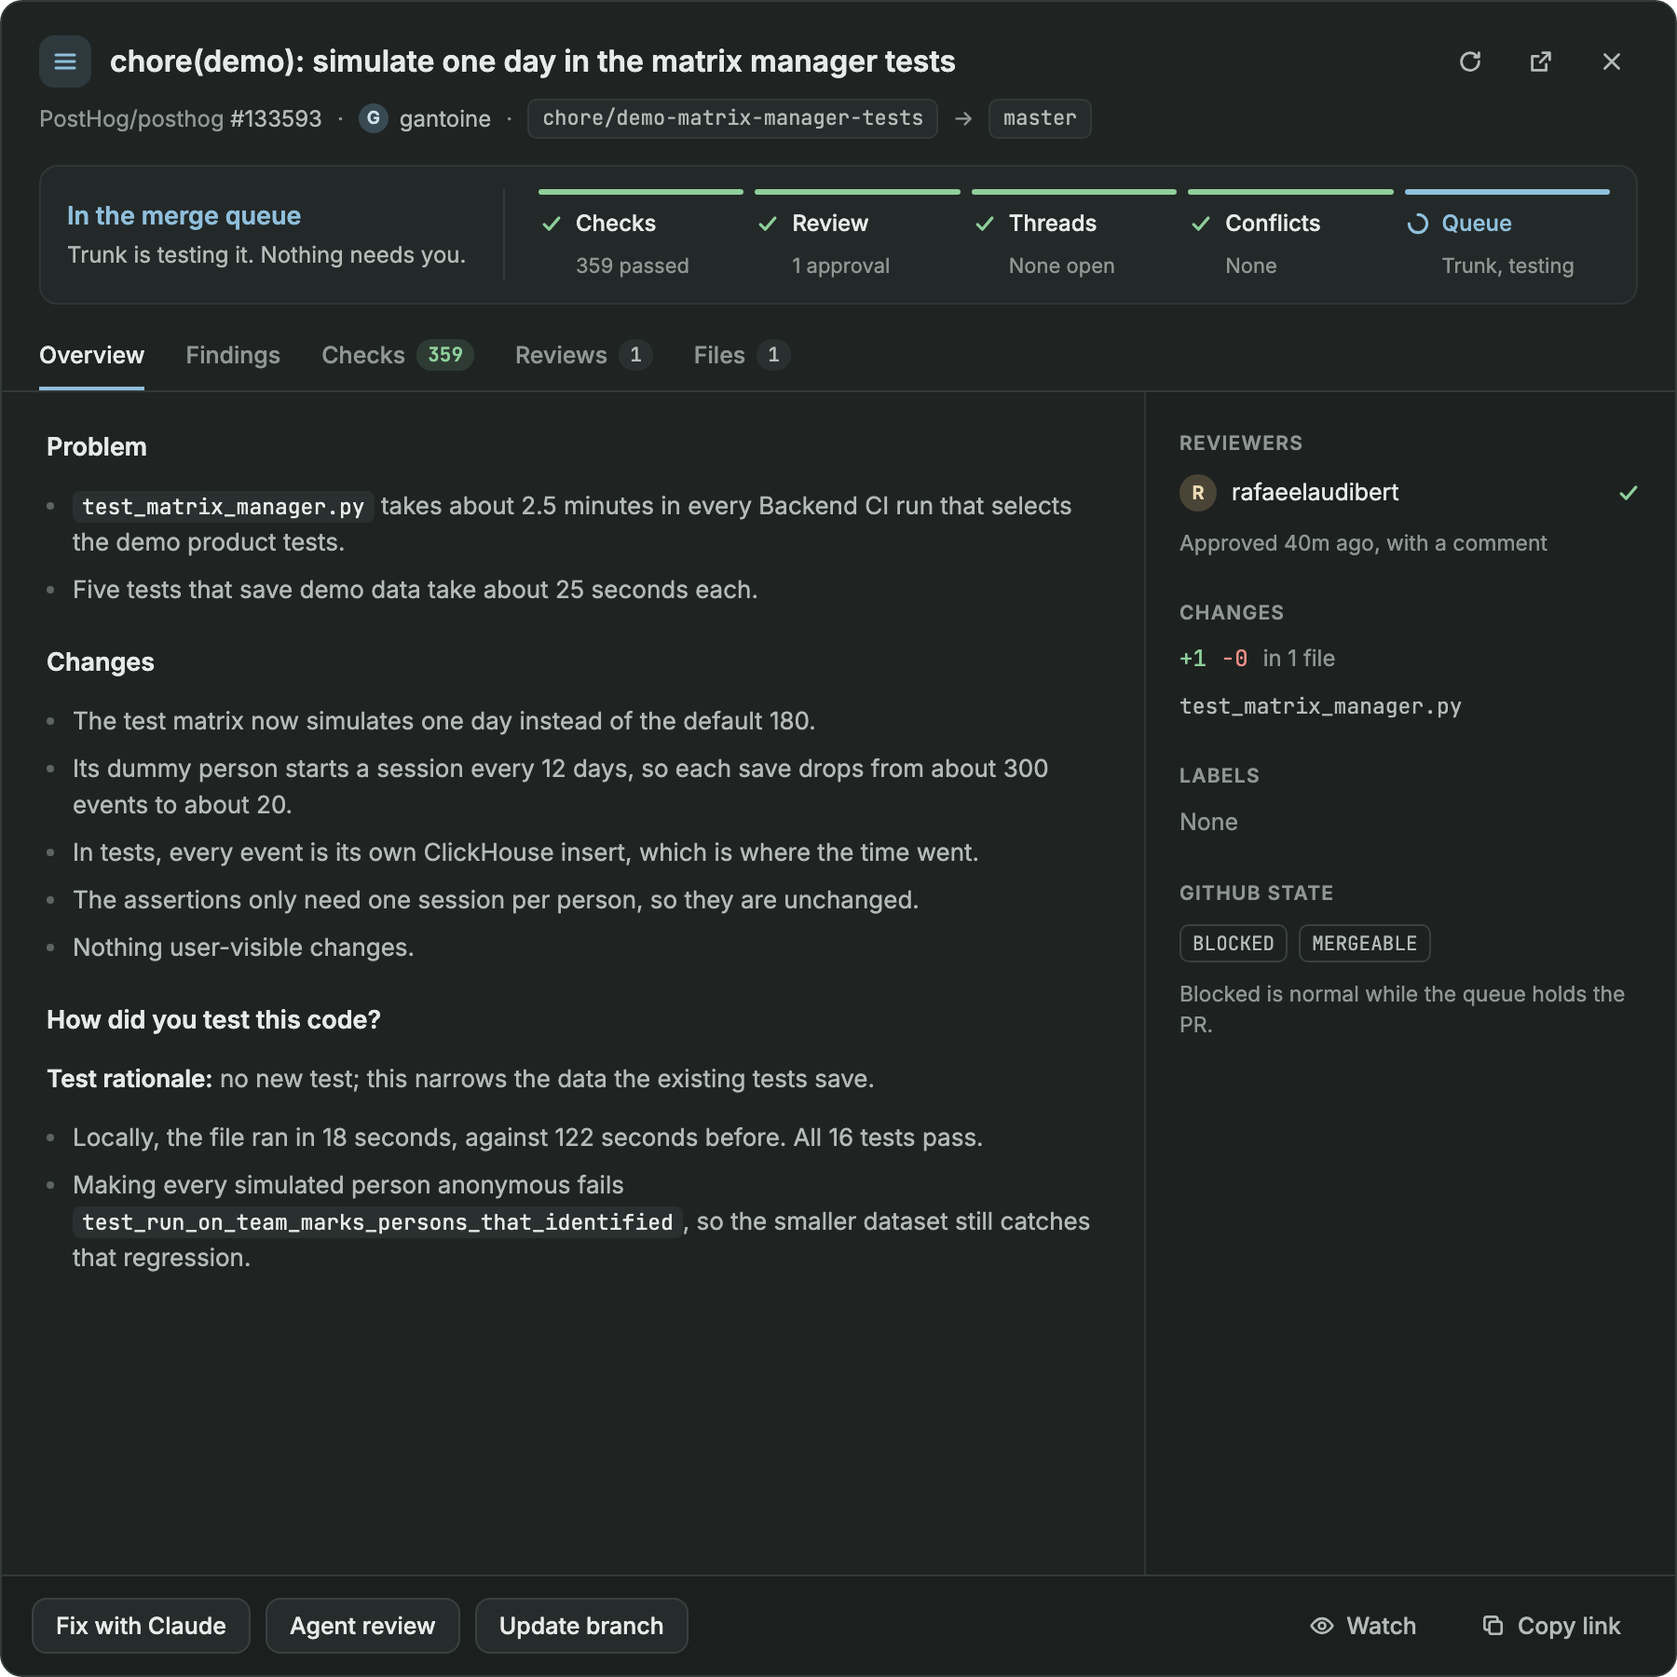
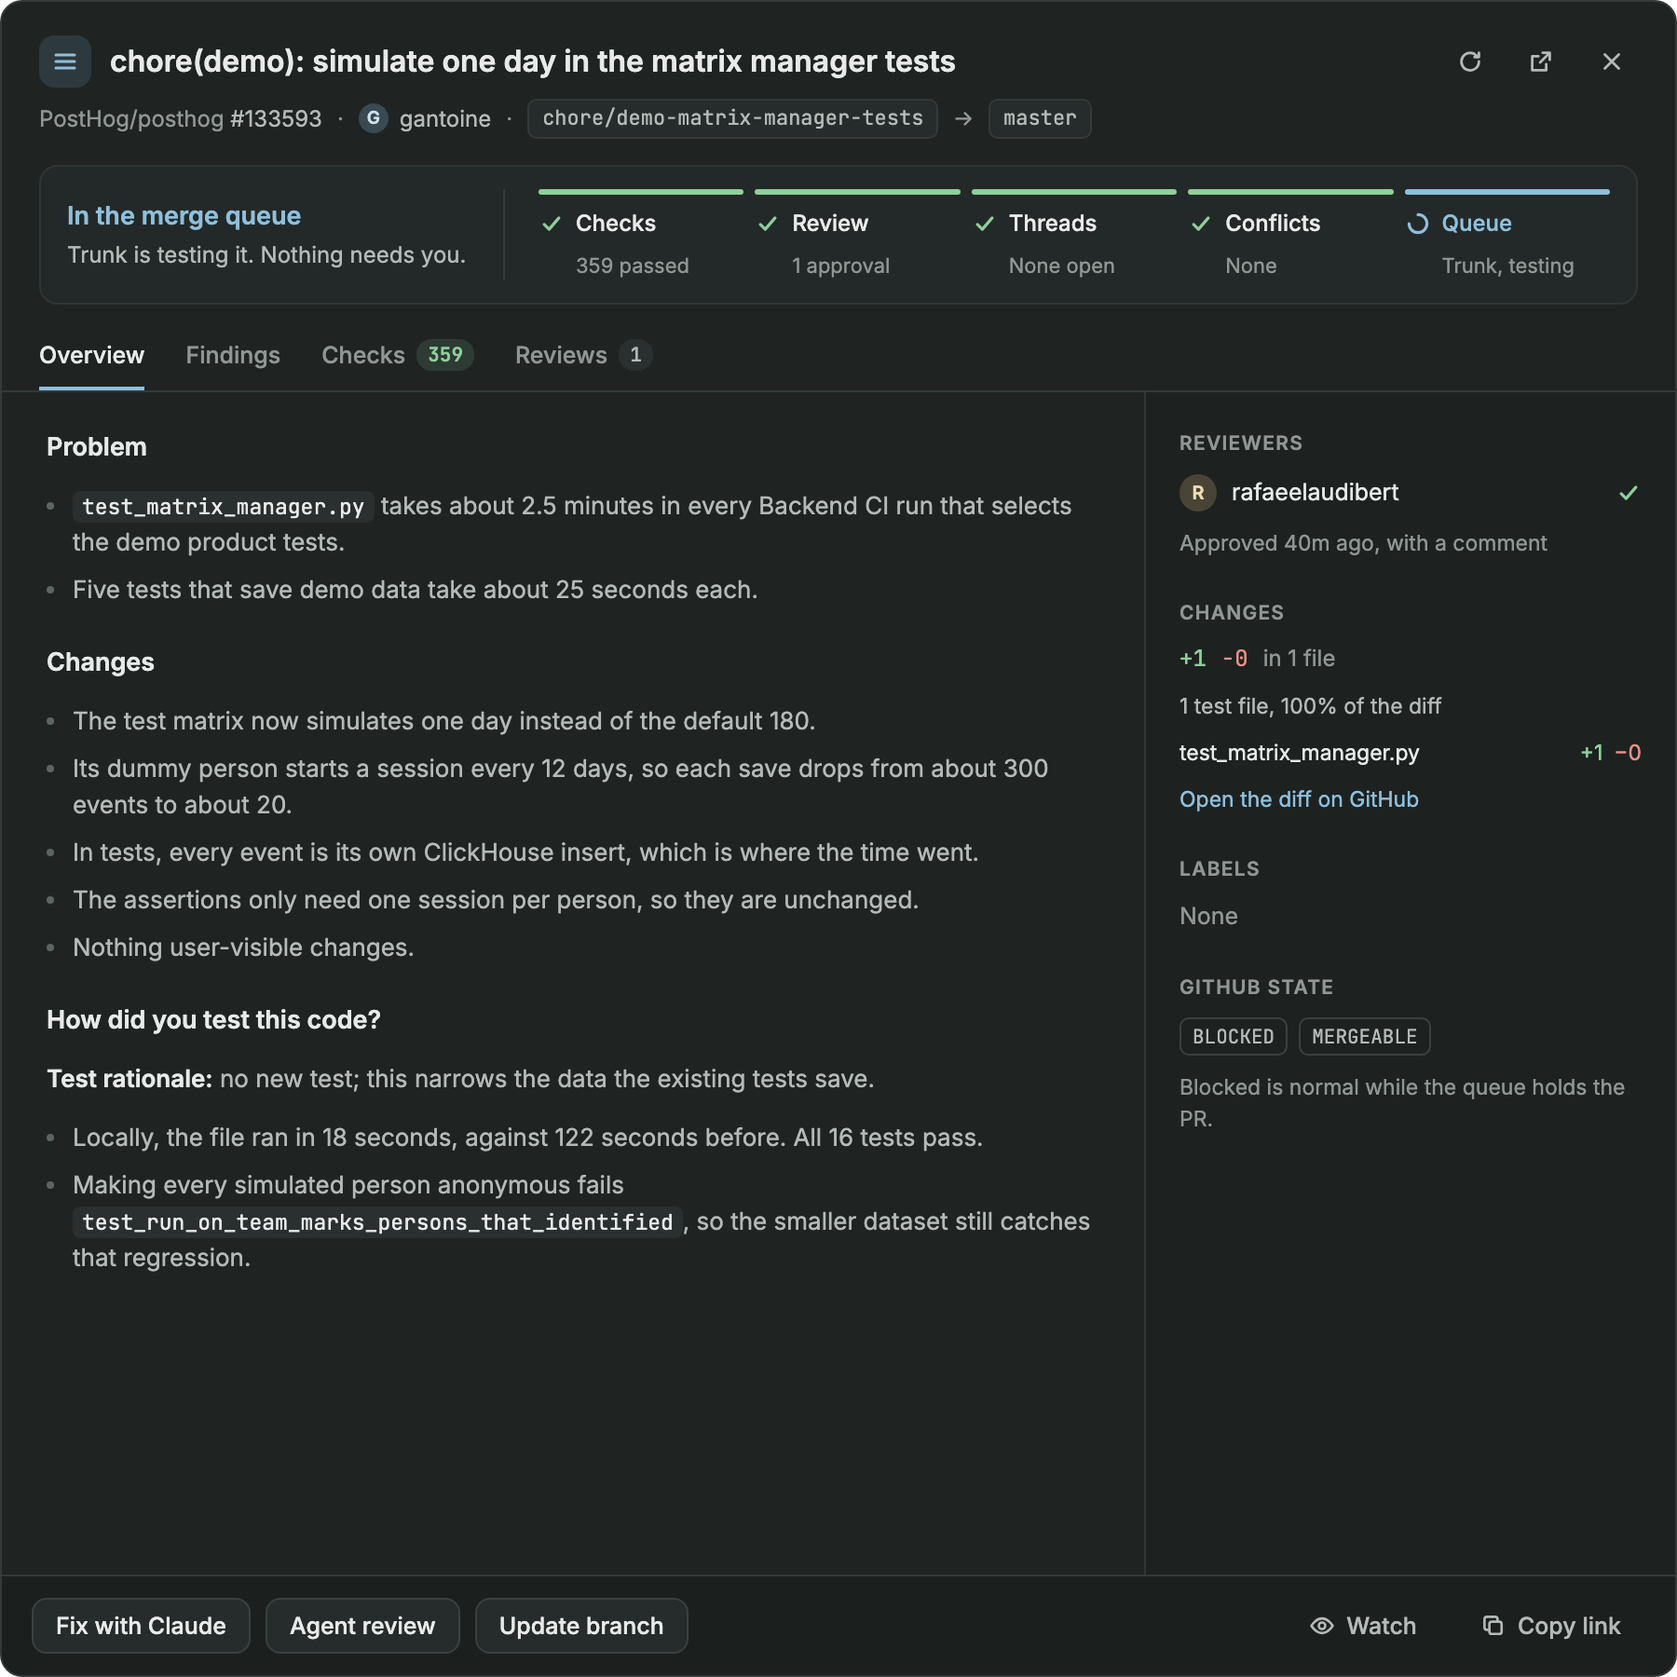
refactor(pull-requests): drop the sheet's Files tab for a change summary on Overview
The tab couldn't show or edit a file, so it only repeated GitHub. The
Overview rail now says how big the change is, where most of it sits,
how much is tests or snapshots, and lists the largest files with a link
to the diff.

Changed region(s): [[0.6844, 0.4044, 0.9644, 0.6533], [0.4044, 0.1867, 0.4356, 0.2178]]

diff --git a/pull-requests/mods/prs/main.js b/pull-requests/mods/prs/main.js
@@ -13,7 +13,7 @@ import { sidebarHeader, sidebarMine, sidebarQueue, sidebarReviews, sidebarRail, 
 import { visualAsks, stackGroups, withoutDraftStacks, step, queueFor } from "./steps.js";
 import { openClaude, CLAUDE_ICON } from "./claude.js";
 import { ago, button, iconButton, glyphButton, textIconButton, chip, badge, section, empty, field, menuItem, SPINNER, tone, TEXT, tint, avatar, countPill, codePill, gateStrip, titleText } from "./ui.js";
-import { readiness, groupChecks, rowMatches, tallyChecks, tallyText, tallyLabel, worstBucket, mergeStateNote, groupFiles, fileSummary, parseMarkdown } from "./sheet.js";
+import { readiness, groupChecks, rowMatches, tallyChecks, tallyText, tallyLabel, worstBucket, mergeStateNote, changeShape, parseMarkdown } from "./sheet.js";
 
 const MINE_EVERY_MS = 90000;
 const REVIEWS_EVERY_MS = 180000;
@@ -1387,13 +1387,11 @@ export default class Prs extends View {
     const openFindings = findings.filter((finding) => finding.state === "open").length;
     const worst = worstBucket(state.tally);
     const reviewCount = this.detail ? this.conversation().reviews : 0;
-    const files = this.detail?.files.length || pr.changedFiles || 0;
     const tabs = [
       ["overview", "Overview", null],
       ["findings", "Findings", openFindings ? countPill(t, String(openFindings)) : null],
       ["checks", "Checks", state.tally.total ? countPill(t, tallyLabel(state.tally), worst ? bucketColor(t, worst) : null) : null],
       ["reviews", "Reviews", reviewCount ? countPill(t, String(reviewCount)) : null],
-      ["files", "Files", files ? countPill(t, String(Math.max(files, pr.changedFiles ?? 0))) : null],
     ];
     return h_flex()
       .mt(8)
@@ -1429,7 +1427,6 @@ export default class Prs extends View {
     if (!this.detail) return this.scrollBody([empty(t, "Loading details…")]);
     if (this.tab === "checks") return this.scrollBody(this.checksTab(t), 12);
     if (this.tab === "reviews") return this.scrollBody(this.reviewsTab(t, pr, state), 20);
-    if (this.tab === "files") return this.scrollBody(this.filesTab(t, pr), 8);
     return this.overviewTab(t, pr, state);
   }
 
@@ -1559,6 +1556,7 @@ export default class Prs extends View {
     const reviewers = state.reviewers ?? [];
     const files = this.detail.files;
     const fileCount = pr.changedFiles ?? files.length;
+    const shape = changeShape(files);
     const note = mergeStateNote(pr);
     return v_flex()
       .id("prs-sheet-rail")
@@ -1579,7 +1577,24 @@ export default class Prs extends View {
             .child(div().text_color(tone(t, "ok")).child(`+${pr.additions ?? 0}`))
             .child(div().text_color(tone(t, "bad")).child(`−${pr.deletions ?? 0}`))
             .child(div().text_color(t.dim).child(`in ${fileCount} file${fileCount === 1 ? "" : "s"}`)),
-          ...(files.length === 1 ? [div().text_size(11.5).text_color(t.muted).truncate().child(files[0].path.slice(files[0].path.lastIndexOf("/") + 1))] : []),
+          ...(shape.where ? [div().text_size(11.5).text_color(t.muted).child(shape.where)] : []),
+          ...shape.notes.map((note) => div().text_size(11.5).text_color(t.muted).child(note)),
+          ...shape.largest.map((file, index) =>
+            h_flex()
+              .id(`prs-rail-file-${index}`)
+              .gap(6)
+              .items_center()
+              .text_size(11.5)
+              .cursor_pointer()
+              .hover((el) => el.text_color(t.foreground))
+              .tooltip(file.path)
+              .on_click(() => openUrl(`${pr.url}/files`))
+              .child(div().flex_1().min_w(0).truncate().text_color(t.foreground).child(file.name))
+              .child(div().flex_none().text_color(tone(t, "ok")).child(`+${file.additions}`))
+              .child(div().flex_none().text_color(tone(t, "bad")).child(`−${file.deletions}`)),
+          ),
+          ...(shape.more ? [div().text_size(11.5).text_color(t.dim).child(`and ${shape.more} smaller file${shape.more === 1 ? "" : "s"}`)] : []),
+          div().id("prs-rail-diff").text_size(11.5).text_color(t.accent).cursor_pointer().on_click(() => openUrl(`${pr.url}/files`)).child("Open the diff on GitHub"),
         ]),
       )
       .child(block("Labels", [pr.labels?.length ? h_flex().gap(4).flex_wrap().children(pr.labels.map((label) => codePill(t, label))) : div().text_size(12.5).text_color(t.dim).child("None")]))
@@ -1828,101 +1843,6 @@ export default class Prs extends View {
           .child(h_flex().gap(6).text_size(11).text_color(t.dim).child(div().font_semibold().text_color(t.foreground).child(`@${comment.author}${comment.isBot ? " (bot)" : ""}`)).child(ago(comment.createdAt)))
           .child(div().text_size(12).text_color(t.muted).child(cleanBody(comment.body).slice(0, 600))),
       ));
-  }
-
-  filesTab(t, pr) {
-    this.fileSort ??= "folder";
-    this.toggledFolders ??= new Set();
-    const files = this.detail.files;
-    if (!files.length) return [empty(t, "No changed files.")];
-    const summary = fileSummary(files);
-    const sortBy = (mode) => (_e, cx) => {
-      this.fileSort = mode;
-      cx.notify();
-    };
-    const rows = [
-      h_flex()
-        .px(8)
-        .pb(4)
-        .gap(10)
-        .items_center()
-        .child(div().flex_none().font_semibold().child(`${files.length} file${files.length === 1 ? "" : "s"}`))
-        .child(div().flex_none().text_size(12).text_color(tone(t, "ok")).child(`+${summary.additions}`))
-        .child(div().flex_none().text_size(12).text_color(tone(t, "bad")).child(`−${summary.deletions}`))
-        .when(Boolean(summary.note), (el) => el.child(div().min_w(0).truncate().text_size(12).text_color(t.dim).child(`· ${summary.note}`)))
-        .child(div().flex_1())
-        .child(chip(t, "prs-files-folder", "By folder", this.fileSort === "folder", sortBy("folder")))
-        .child(chip(t, "prs-files-largest", "Largest first", this.fileSort === "largest", sortBy("largest"))),
-    ];
-    if ((pr.changedFiles ?? 0) > files.length) rows.push(div().px(8).text_size(11.5).text_color(t.dim).child(`Showing the first ${files.length} of ${pr.changedFiles} files.`));
-    groupFiles(files, this.fileSort).forEach((group, groupIndex) => {
-      const open = !this.toggledFolders.has(group.label);
-      rows.push(
-        v_flex()
-          .gap(1)
-          .child(
-            h_flex()
-              .id(`prs-files-group-${groupIndex}`)
-              .h(26)
-              .px(8)
-              .gap(8)
-              .items_center()
-              .rounded(6)
-              .cursor_pointer()
-              .hover((s) => s.bg(t.hover))
-              .accessibility_label(`${open ? "Collapse" : "Expand"} ${group.label}`)
-              .on_click((_e, cx) => {
-                if (this.toggledFolders.has(group.label)) this.toggledFolders.delete(group.label);
-                else this.toggledFolders.add(group.label);
-                cx.notify();
-              })
-              .child(svg(ICON(open ? "chevron-down" : "chevron-right")).size(12).flex_none().text_color(t.dim))
-              .child(div().min_w(0).truncate().text_size(12).font_medium().child(group.label))
-              .child(div().flex_none().text_size(11.5).text_color(t.dim).child(`${group.files.length} file${group.files.length === 1 ? "" : "s"}`))
-              .child(div().flex_1())
-              .child(div().flex_none().text_size(11).text_color(t.dim).child(`+${group.additions} −${group.deletions}`)),
-          )
-          .when(open, (el) => el.children(group.files.map((file, fileIndex) => this.fileRow(t, pr, file, summary.widest, `${groupIndex}-${fileIndex}`)))),
-      );
-    });
-    return rows;
-  }
-
-  fileRow(t, pr, file, widest, id) {
-    const barWidth = (count) => (count ? Math.max(2, Math.round((count / widest) * 64)) : 0);
-    const count = (text, toneName) => h_flex().w(34).flex_none().justify_end().text_size(11.5).text_color(tone(t, toneName)).child(text);
-    return h_flex()
-      .id(`prs-file-${id}`)
-      .h(30)
-      .pl(30)
-      .pr(10)
-      .gap(10)
-      .items_center()
-      .rounded(7)
-      .cursor_pointer()
-      .hover((s) => s.bg(t.hover))
-      .tooltip(file.path)
-      .on_click(() => openUrl(`${pr.url}/files`))
-      .child(
-        h_flex()
-          .flex_1()
-          .min_w(0)
-          .text_size(12)
-          .when(Boolean(file.dir), (el) => el.child(div().min_w(0).truncate().text_color(t.dim).child(file.dir)))
-          .child(div().flex_none().text_color(t.foreground).child(file.name)),
-      )
-      .when(Boolean(file.tag), (el) => el.child(badge(t, file.tag, "muted")))
-      .child(count(`+${file.additions}`, "ok"))
-      .child(count(`−${file.deletions}`, "bad"))
-      .child(
-        h_flex()
-          .w(66)
-          .flex_none()
-          .gap(1)
-          .items_center()
-          .when(barWidth(file.additions) > 0, (el) => el.child(div().w(barWidth(file.additions)).h(6).rounded(2).bg(tone(t, "ok"))))
-          .when(barWidth(file.deletions) > 0, (el) => el.child(div().w(barWidth(file.deletions)).h(6).rounded(2).bg(tone(t, "bad")))),
-      );
   }
 
   findingsTab(t, pr, findings) {

diff --git a/pull-requests/mods/prs/sheet.js b/pull-requests/mods/prs/sheet.js
@@ -281,41 +281,29 @@ function sharedDirectory(entries) {
   return shared.length ? `${shared.join("/")}/` : "";
 }
 
-const fileGroup = (label, files) => ({ label, files, additions: files.reduce((sum, file) => sum + file.additions, 0), deletions: files.reduce((sum, file) => sum + file.deletions, 0) });
-
-export function groupFiles(files, mode = "folder") {
+export function changeShape(files, largestCount = 4) {
   const entries = files.map(fileEntry);
-  if (mode === "largest") return [fileGroup("Largest first", [...entries].sort((a, b) => b.size - a.size || a.path.localeCompare(b.path)))];
+  const total = entries.reduce((sum, entry) => sum + entry.size, 0);
+  const share = (size) => (total ? Math.round((size / total) * 100) : 0);
   const byTop = new Map();
   for (const entry of entries) {
     const top = entry.path.includes("/") ? entry.path.slice(0, entry.path.indexOf("/")) : "";
-    if (!byTop.has(top)) byTop.set(top, []);
-    byTop.get(top).push(entry);
+    byTop.set(top, [...(byTop.get(top) ?? []), entry]);
   }
-  const groups = [];
-  const rest = [];
-  for (const [top, members] of byTop) {
-    if (!top || members.length < 2) {
-      rest.push(...members);
-      continue;
-    }
-    const prefix = sharedDirectory(members);
-    groups.push(fileGroup(prefix, members.map((entry) => ({ ...entry, dir: entry.dir.slice(prefix.length) }))));
-  }
-  if (rest.length) groups.push(fileGroup(groups.length ? "Everything else" : "Files", rest));
-  return groups;
-}
-
-export function fileSummary(files) {
-  const entries = files.map(fileEntry);
-  const tests = entries.filter((entry) => entry.tag === "test").length;
-  const snapshots = entries.filter((entry) => entry.tag === "snapshot").length;
-  const notes = [tests ? `${tests} ${tests === 1 ? "is a test" : "are tests"}` : null, snapshots ? `${snapshots} ${snapshots === 1 ? "is a snapshot" : "are snapshots"}` : null].filter(Boolean);
+  const [top, members] = [...byTop.entries()].sort((a, b) => b[1].reduce((sum, entry) => sum + entry.size, 0) - a[1].reduce((sum, entry) => sum + entry.size, 0))[0] ?? ["", []];
+  const topShare = share(members.reduce((sum, entry) => sum + entry.size, 0));
+  const tagged = (tag) => entries.filter((entry) => entry.tag === tag);
+  const note = (tag, one, many) => {
+    const hits = tagged(tag);
+    if (!hits.length) return null;
+    const part = share(hits.reduce((sum, entry) => sum + entry.size, 0));
+    return `${hits.length} ${hits.length === 1 ? one : many}${part >= 10 ? `, ${part}% of the diff` : ""}`;
+  };
   return {
-    additions: entries.reduce((sum, entry) => sum + entry.additions, 0),
-    deletions: entries.reduce((sum, entry) => sum + entry.deletions, 0),
-    widest: Math.max(1, ...entries.map((entry) => entry.size)),
-    note: notes.join(", "),
+    where: top && byTop.size > 1 && topShare >= 50 ? `${topShare}% in ${sharedDirectory(members)}` : null,
+    notes: [note("test", "test file", "test files"), note("snapshot", "snapshot", "snapshots")].filter(Boolean),
+    largest: entries.length > 1 ? [...entries].sort((a, b) => b.size - a.size || a.path.localeCompare(b.path)).slice(0, largestCount) : entries,
+    more: Math.max(0, entries.length - largestCount),
   };
 }
 

diff --git a/pull-requests/RECIPE.md b/pull-requests/RECIPE.md
@@ -22,12 +22,11 @@ The panel sits under the agents list. In the `Pull-Requests` layout, `cmd-shift-
   - **Filter chips:** repo, Hide drafts, Needs attention, Needs review, Ready to merge, Watching, newest/oldest, requested via (direct or a team), Priority, saved filters, "+ Filter", "+ Add PR" and Copy list.
 - **The detail sheet:** a 900×820 dialog. The header has the PR's state icon, its title, and icon buttons for Refresh, Open on GitHub and Close, then the repo and number, the author, and head → base branch.
   - **Readiness:** on every tab, a verdict (what's blocking and whether it needs you) next to five gates: Checks, Review, Threads, Conflicts, and Queue (Trunk or GitHub merge queue) or, for repos without a queue, Merge. Each gate has a colored bar, an icon and a short state ("359 passed", "2 failed", "Waiting", "None open", "Trunk, testing", "Not queued").
-  - **Tabs:** Overview, Findings, Checks, Reviews and Files, with counts. The Checks count is colored by the worst state: failed, then running, then passed.
+  - **Tabs:** Overview, Findings, Checks and Reviews, with counts. The Checks count is colored by the worst state: failed, then running, then passed.
   - **Action bar:** fixed at the bottom. The first button is the one the verdict calls for, highlighted: Fix with Claude when checks fail, it conflicts, changes are requested or threads are open, Send to queue or Merge when it's ready, Ready for review on a draft, and none when nothing needs you. Rerun failed shows only when checks failed. Watch and Copy link sit on the right. On someone else's PR it's Review in Claude, Agent review and Approve.
-  - **Overview:** failing checks when there are any, then the description as Markdown (headings, lists, bold, inline code, links and code blocks; the rest as plain text). The right rail lists reviewers and their latest review, the size, labels, and GitHub's merge state and mergeable values.
+  - **Overview:** failing checks when there are any, then the description as Markdown (headings, lists, bold, inline code, links and code blocks; the rest as plain text). The right rail lists reviewers and their latest review, the change (size, the folder holding most of it, how much is tests or snapshots, the four largest files, and a link to the diff on GitHub), labels, and GitHub's merge state and mergeable values. There is no file browser: the diff is read on GitHub or in Claude Code.
   - **Checks:** filter chips (All, Failed, Running, Passed) over one proportional bar, then checks grouped by workflow (the name before " / ") with a summary per group. Groups where everything passed start folded. Matrix shards ("… (3/9)") fold into one row with a square per shard and a status like "2/9 failed". Failed rows come first. A row opens its check (for shards, the first failed, else running). Required checks keep their REQUIRED tag.
   - **Reviews:** approvals, changes requested and open threads, then one timeline like GitHub's, newest first. Each review has the reviewer's initial with a state badge, its body, and the threads it started (open first); threads whose review isn't loaded stand on their own. Open threads start expanded, with an amber border and a Resolve button. Resolved threads are dimmed and start folded to one line. Click a thread's header to fold or unfold it. HTML comments in bodies are hidden.
-  - **Files:** file count and size, then files by top-level folder (single files fall under "Everything else") or largest first, with the folder dimmed, +/− counts, a diffstat bar, and "test" or "snapshot" tags guessed from the path.
 - **Settings page:** repositories (add, reorder, remove; `owner/*` covers every repo of that owner, which is the default for `PostHog` next to `PostHog/posthog`), where agents run, a checkout path per repo with Detect, the Trunk repo and the machine its CLI runs on, agent models and notifications.
 - **Colors:** all from the theme, through named tones: ok `ansi2`, bad `ansi1`, warn `ansi3`, run `working`, merged `ansi5`, info `ansi6`, plus `accent`, `muted` and `dim`. Light themes and theme picks apply to both views, since they're one layout.
 

diff --git a/pull-requests/README.md b/pull-requests/README.md
@@ -19,6 +19,4 @@ Click a PR for its sheet. These are the design mockups the sheet was built from.
 | --- | --- |
 | ![Overview tab](screenshots/overview.png) | ![Checks tab](screenshots/checks.png) |
 
-| Reviews | Files |
-| --- | --- |
-| ![Reviews tab](screenshots/reviews.png) | ![Files tab](screenshots/files.png) |
+![Reviews tab](screenshots/reviews.png)
